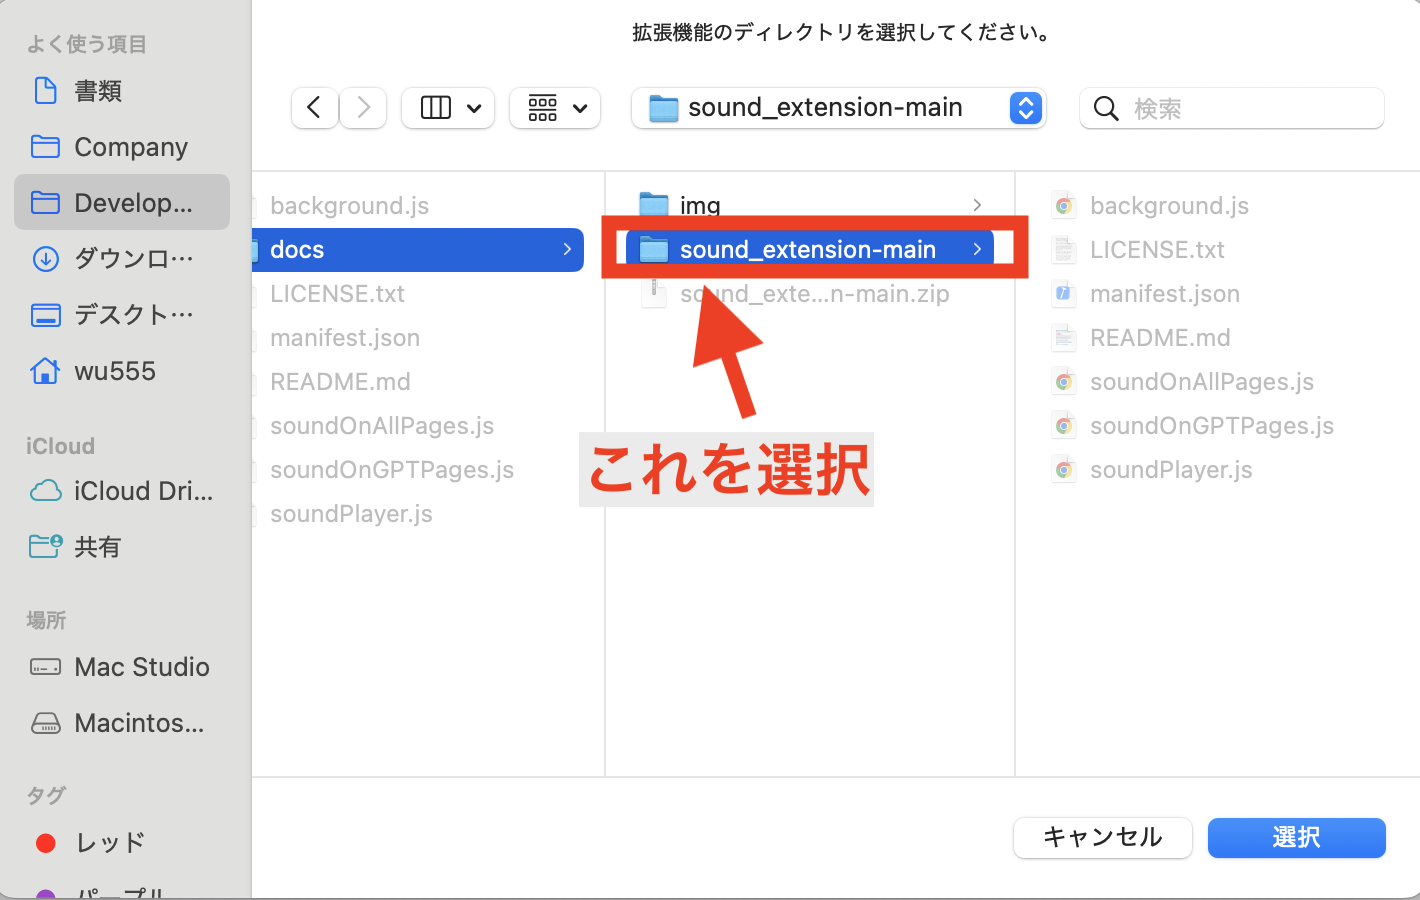
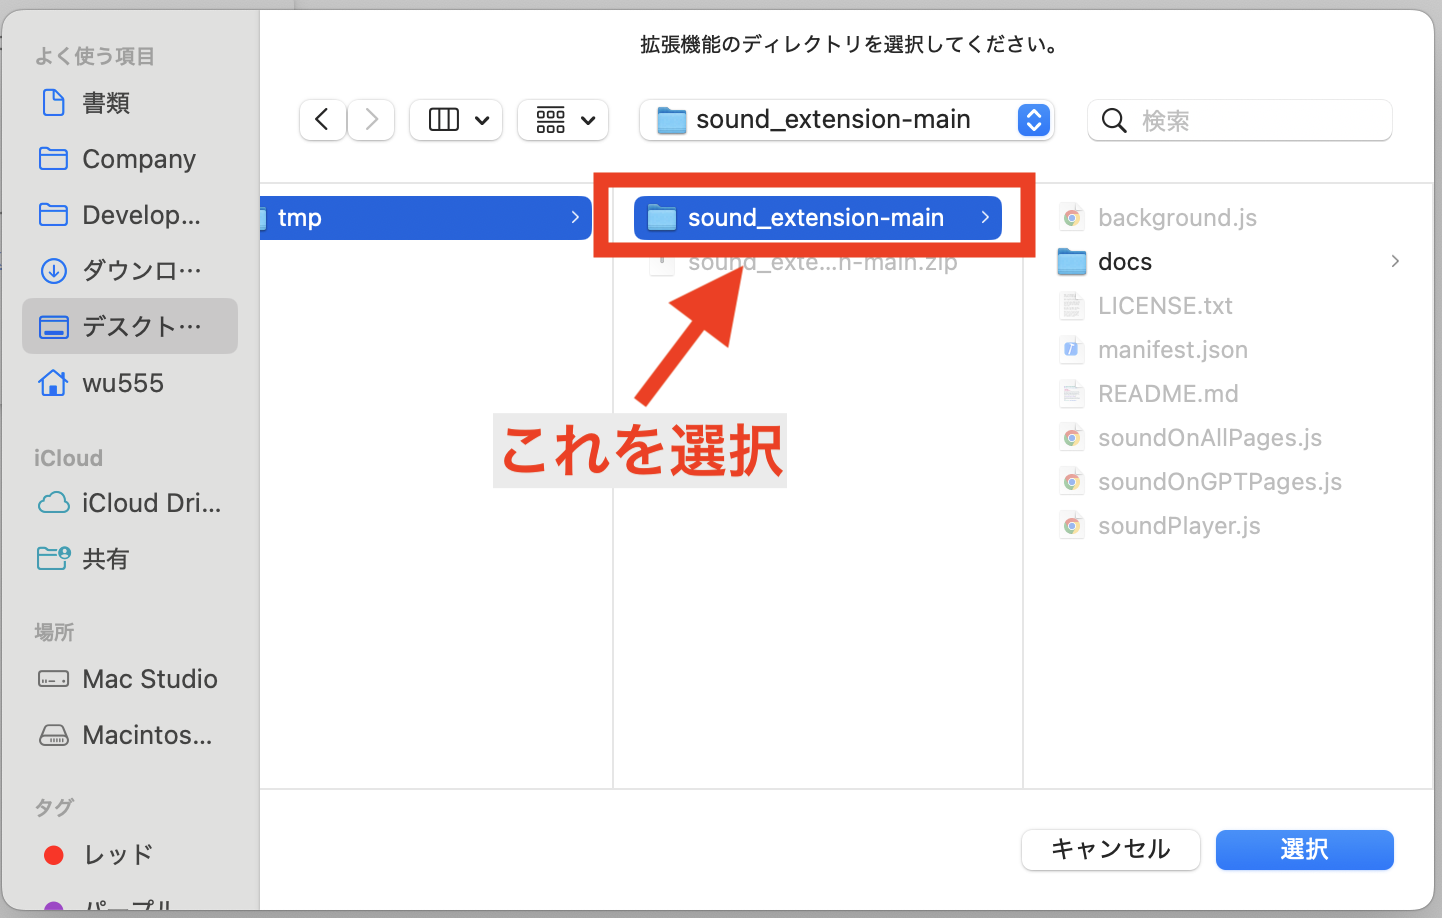
improve README text

diff --git a/README.md b/README.md
@@ -18,7 +18,7 @@ $ git clone https://github.com/wubw555/sound_extension
 ![img2](docs/img/img2.png)
 3. 拡張機能の管理ページから「パッケージ化されていない拡張機能を読み込む」をクリック
 ![img3](docs/img/img3.png)
-4. 展開したフォルダを選択(1.で展開した場所にあります。)
+4. 1.で展開したフォルダを選択(1. で展開したフォルダの中身ではなく1.で展開したフォルダそのもののことです)
 ![img4](docs/img/img4.png)
 5. これで使用の準備ができました！
 
